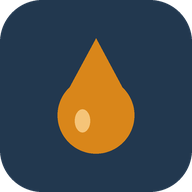
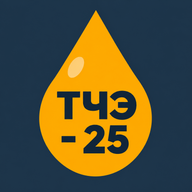
Update locomotive background and unique nickname registration

diff --git a/cloud-bridge.js b/cloud-bridge.js
@@ -19,13 +19,13 @@
  window.fetch=async(input,init={})=>{
   const raw=typeof input==='string'?input:input.url;
   const path=new URL(raw,location.href);
-  if(path.origin!==location.origin||!['/app-settings.json','/api/history','/api/norms'].includes(path.pathname))return nativeFetch(input,init);
+  if(path.origin!==location.origin||!['/app-settings.json','/api/history','/api/norms','/api/register'].includes(path.pathname))return nativeFetch(input,init);
   try{
    if(path.pathname==='/app-settings.json')return response((await jsonp('config')).config);
    if(path.pathname==='/api/norms')return response(await jsonp('norms'));
    if((init.method||'GET').toUpperCase()==='GET')return response(await jsonp('mine',{dev:path.searchParams.get('dev')||''}));
    const entry=JSON.parse(init.body),receipt=crypto.randomUUID().replaceAll('-','');const c=await config();
-   await nativeFetch(c.backendUrl,{method:'POST',mode:'no-cors',headers:{'Content-Type':'text/plain;charset=utf-8'},body:JSON.stringify({action:'save',entry,receipt})});
+   await nativeFetch(c.backendUrl,{method:'POST',mode:'no-cors',headers:{'Content-Type':'text/plain;charset=utf-8'},body:JSON.stringify({action:path.pathname==='/api/register'?'register':'save',entry,receipt})});
    const answer=await jsonp('receipt',{receipt});return response(answer,answer.ok?200:503);
   }catch(e){return response({ok:false,error:e.message},503);}
  };
